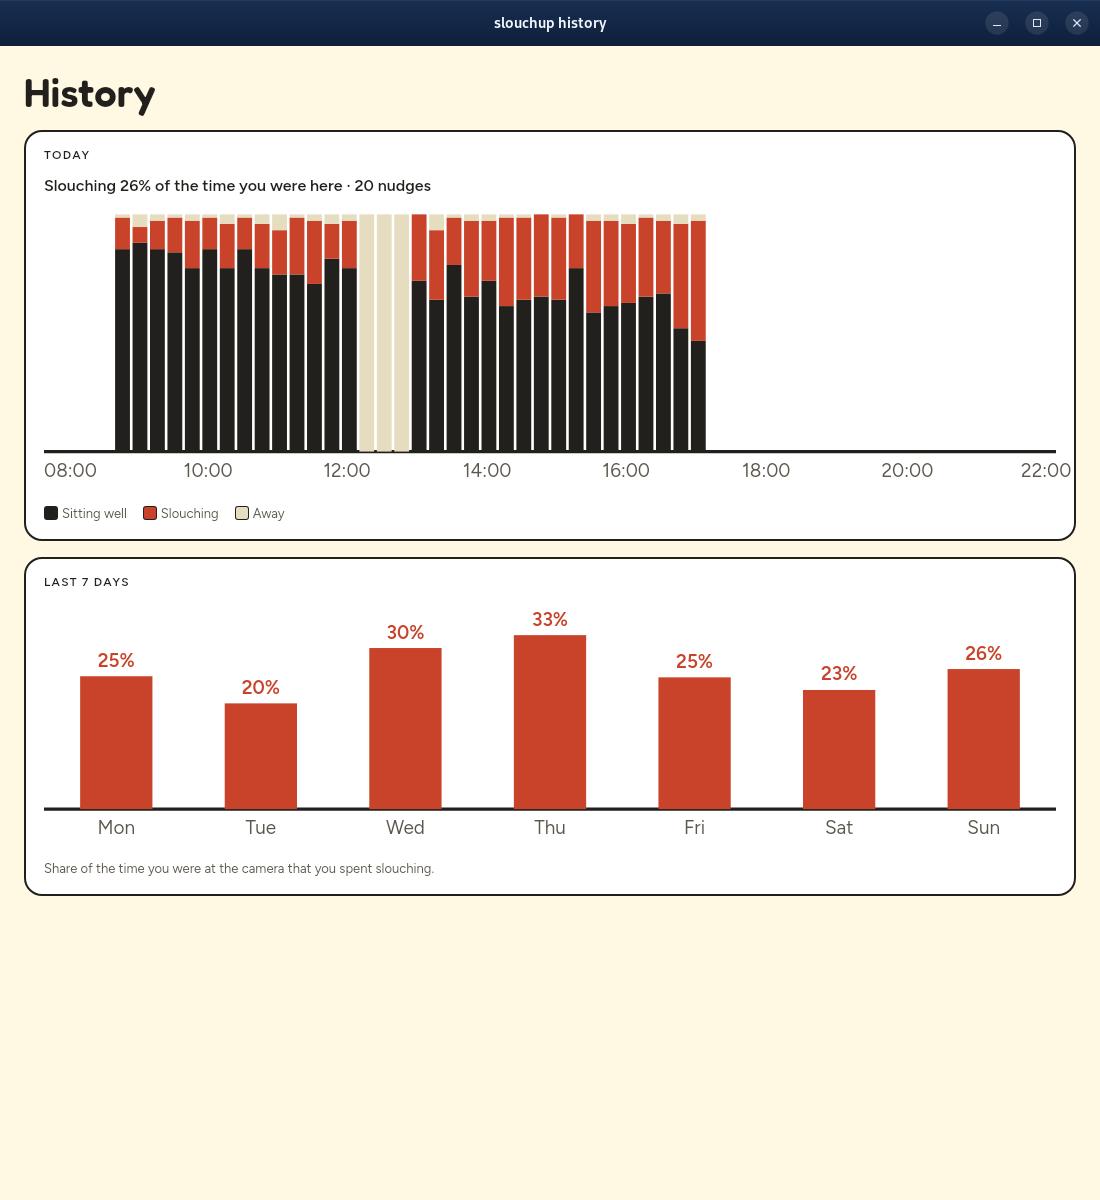
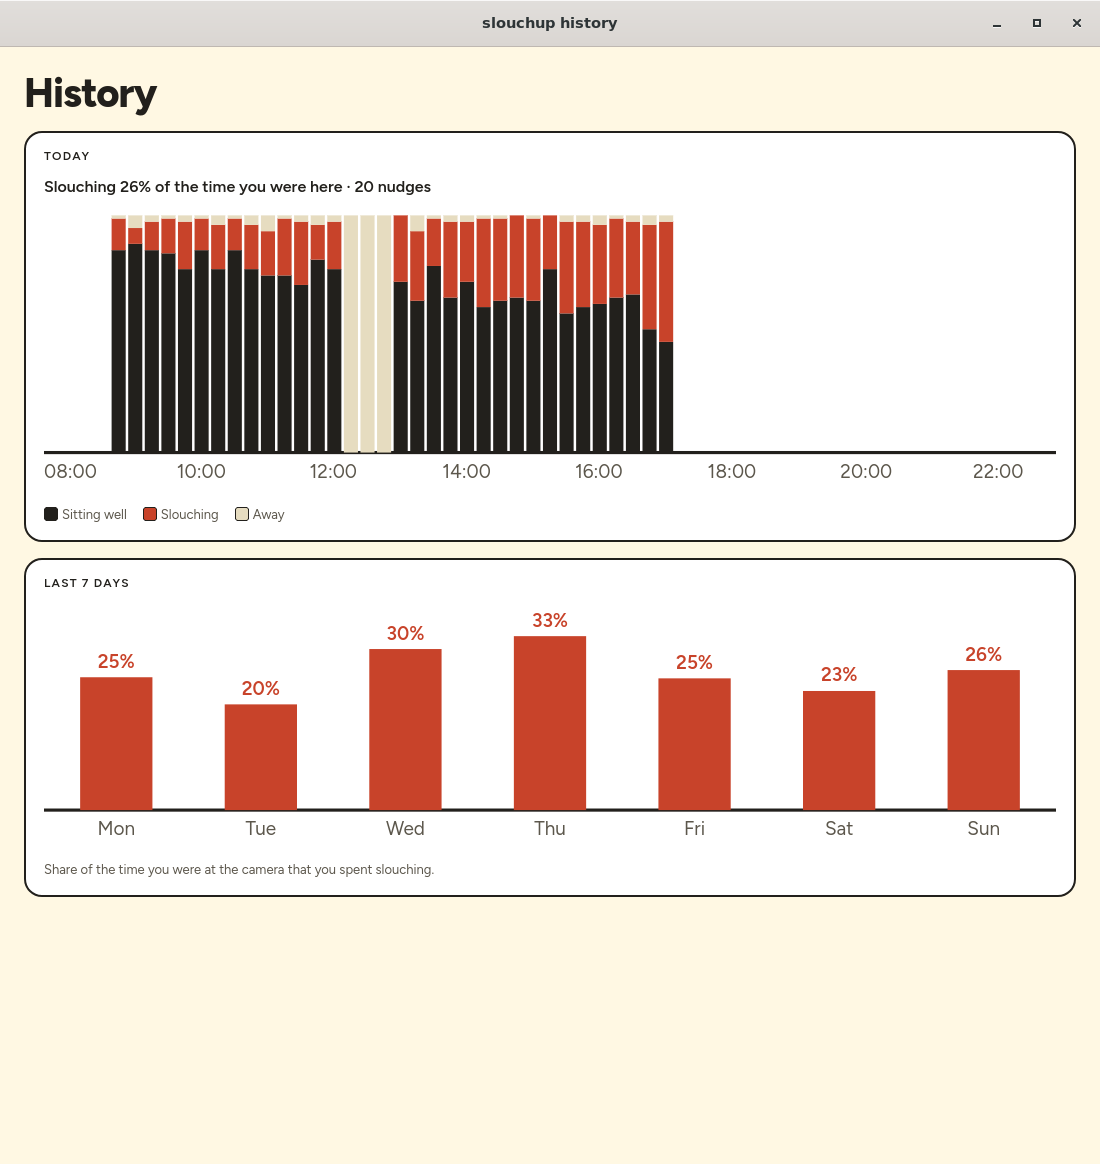
App headers set in Figtree ExtraBold
The app's headers still used the rounded Fredoka the homepage moved away from.
- The welcome, settings, history, "still running" and calibration game headers use Figtree
  ExtraBold, built in like the app's other fonts
- The wordmark and every raised "up" stay in Fredoka

Claude-Session: https://claude.ai/code/session_018qmWg22Aba3GmdpsBF9CRo

diff --git a/crates/slouch-app/src/style.css b/crates/slouch-app/src/style.css
@@ -16,7 +16,15 @@ html, body {
 }
 
 /* The rising "up": once per surface, with room above it so it isn't clipped. */
-.up { position: relative; top: calc(var(--rise-up) * -1); color: var(--up); }
+.up {
+  position: relative;
+  top: calc(var(--rise-up) * -1);
+  color: var(--up);
+  font-family: var(--font-wordmark);
+  font-weight: 600;
+  letter-spacing: 0;
+}
+.wordmark { font-family: var(--font-wordmark); font-weight: 600; letter-spacing: 0; }
 
 .button {
   min-height: 44px;
@@ -102,7 +110,7 @@ html, body {
   padding: var(--space-3) var(--space-4) var(--space-4);
   background: var(--ink);
 }
-.banner-title { padding-top: var(--rise-up); font: 600 22px/1.2 var(--font-display); }
+.banner-title { padding-top: var(--rise-up); font: var(--weight-display) 22px/1.2 var(--font-display); }
 .banner-line { margin-top: var(--space-1); font-size: 14px; color: var(--text-muted); font-variant-numeric: tabular-nums; }
 .banner .progress { margin-top: var(--space-3); }
 
@@ -151,9 +159,9 @@ html, body {
 }
 .look-eyes { width: 240px; }
 .look-eyes svg { display: block; width: 100%; }
-.look-title { font: 600 104px/1 var(--font-display); }
-.look-prompt { padding-top: var(--rise-up); font: 600 40px/1.1 var(--font-display); }
-.look-detail { max-width: 900px; font: 600 28px/1.15 var(--font-display); color: var(--text-muted); }
+.look-title { font: var(--weight-display) 104px/1 var(--font-display); letter-spacing: -0.03em; }
+.look-prompt { padding-top: var(--rise-up); font: var(--weight-display) 40px/1.1 var(--font-display); letter-spacing: -0.025em; }
+.look-detail { max-width: 900px; font: var(--weight-display) 28px/1.15 var(--font-display); letter-spacing: -0.02em; color: var(--text-muted); }
 /* Small enough to check you're in frame without becoming the thing you look at. */
 .look-camera {
   position: relative;
@@ -177,7 +185,7 @@ html, body {
   padding: var(--space-6);
   overflow-y: auto;
 }
-.settings h1 { margin: 0; font: 600 40px/1.1 var(--font-display); }
+.settings h1 { margin: 0; font: var(--weight-display) 40px/1.1 var(--font-display); letter-spacing: -0.025em; }
 .settings section {
   display: flex;
   flex-direction: column;
@@ -222,7 +230,7 @@ html, body {
 /* Still running, after the camera window first closes */
 
 .still-running { display: flex; flex-direction: column; gap: var(--space-3); padding: var(--space-6); }
-.still-running h1 { display: flex; align-items: center; gap: var(--space-3); margin: 0; font: 600 26px/1.15 var(--font-display); }
+.still-running h1 { display: flex; align-items: center; gap: var(--space-3); margin: 0; font: var(--weight-display) 26px/1.15 var(--font-display); letter-spacing: -0.02em; }
 .still-running h1 .eyes { width: 32px; height: 32px; }
 .still-running p { margin: 0; }
 .still-running .buttons { margin-top: var(--space-2); }
@@ -236,7 +244,7 @@ html, body {
   padding: var(--space-6);
   overflow-y: auto;
 }
-.history h1 { margin: 0; font: 600 40px/1.1 var(--font-display); }
+.history h1 { margin: 0; font: var(--weight-display) 40px/1.1 var(--font-display); letter-spacing: -0.025em; }
 .history section {
   display: flex;
   flex-direction: column;

diff --git a/crates/slouch-app/src/tokens.css b/crates/slouch-app/src/tokens.css
@@ -51,6 +51,8 @@
   --radius-pill: 999px;
   --rise-up: 0.3em;
   --rise-up-small: 0.25em;
-  --font-display: "Fredoka", "Trebuchet MS", sans-serif;
+  --font-wordmark: "Fredoka", "Trebuchet MS", sans-serif;
+  --font-display: "Figtree", "Segoe UI", system-ui, sans-serif;
+  --weight-display: 800;
   --font-body: "Figtree", "Segoe UI", system-ui, sans-serif;
 }

diff --git a/crates/slouch-app/src/style.rs b/crates/slouch-app/src/style.rs
@@ -10,7 +10,7 @@ const TOKENS: &str = include_str!("tokens.css");
 const RULES: &str = include_str!("style.css");
 
 /// Family, weight and file of each typeface the design system uses.
-const FONTS: [(&str, u16, &[u8]); 3] = [
+const FONTS: [(&str, u16, &[u8]); 4] = [
     (
         "Fredoka",
         600,
@@ -25,6 +25,11 @@ const FONTS: [(&str, u16, &[u8]); 3] = [
         "Figtree",
         600,
         include_bytes!("../fonts/Figtree-SemiBold.ttf"),
+    ),
+    (
+        "Figtree",
+        800,
+        include_bytes!("../fonts/Figtree-ExtraBold.ttf"),
     ),
 ];
 

diff --git a/crates/slouch-app/src/onboarding.rs b/crates/slouch-app/src/onboarding.rs
@@ -34,7 +34,10 @@ pub fn Onboarding(
     let mut camera = use_signal(|| chosen);
     rsx! {
         div { class: "settings onboarding", "data-theme": Theme::Day.name(),
-            h1 { "Hi, I'm slouch", span { class: "up", "up" } }
+            h1 {
+                "Hi, I'm "
+                span { class: "wordmark", "slouch", span { class: "up", "up" } }
+            }
             p { class: "lede",
                 "I watch your posture through your webcam and nudge you once when you start to slouch. Everything happens on your computer."
             }
